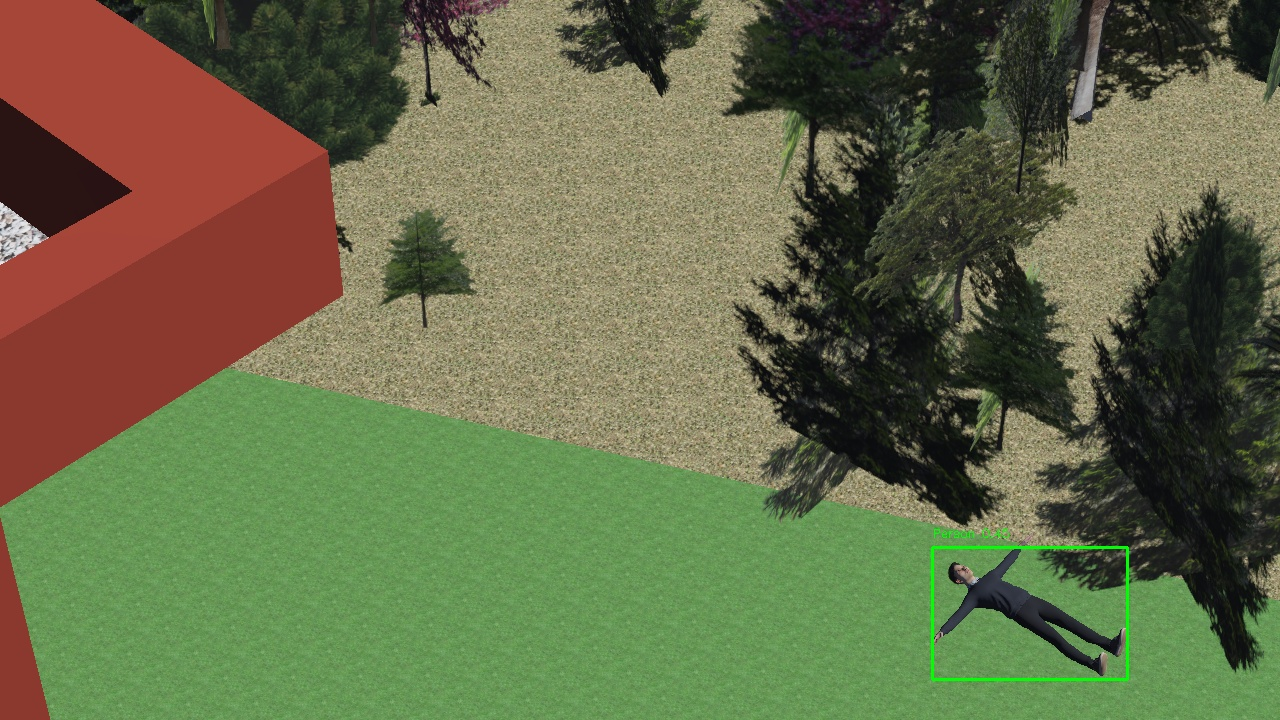
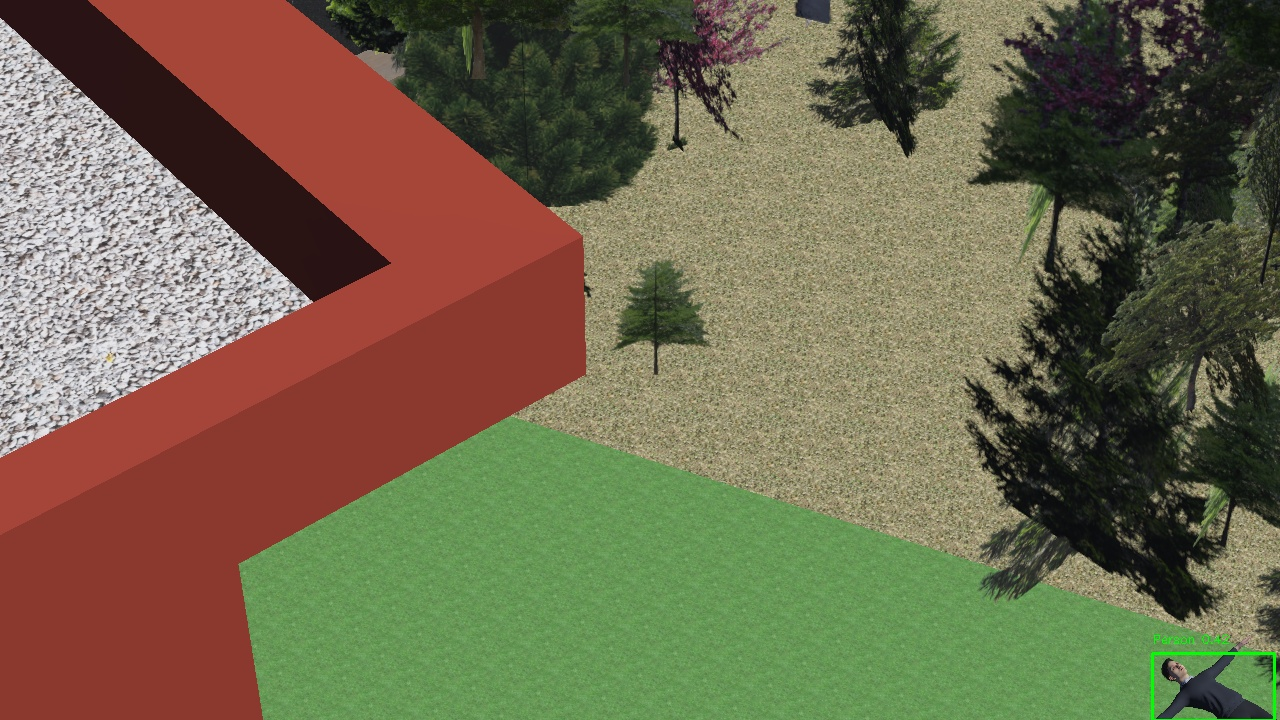
updated waypoints

diff --git a/project/server.py b/project/server.py
@@ -381,36 +381,81 @@ if __name__ == "__main__":
 
 
     # manually make waypoints
-    waypoints = [ {'x': -40, 'y': -40},         #   Start
-                    {'x': 40, 'y': -40},        #   Right
-                    {'x': -40, 'y': -40},        #   Left
-                    {'x': -40, 'y': -20},       #   Up
-                    {'x': 40, 'y': -20},        #   Right
-                    {'x': -40, 'y': -20},       #   Left
-                    {'x': -40, 'y': 0},         #   Up
-                    {'x': 40, 'y': 0},          #   Right
-                    {'x': -40, 'y': 0},         #   Left
-                    {'x': -40, 'y': 20},        #   Up
-                    {'x': 40, 'y': 20},         #   Right
-                    {'x': -40, 'y': 20},        #   Left
-                    {'x': -40, 'y': 40},        #   Up
-                    {'x': 40, 'y': 40},         #   Right
+    # waypoints = [ {'x': -40, 'y': -40},         #   Start
+    #                 {'x': 40, 'y': -40},        #   Right
+    #                 {'x': -40, 'y': -40},        #   Left
+    #                 {'x': -40, 'y': -20},       #   Up
+    #                 {'x': 40, 'y': -20},        #   Right
+    #                 {'x': -40, 'y': -20},       #   Left
+    #                 {'x': -40, 'y': 0},         #   Up
+    #                 {'x': 40, 'y': 0},          #   Right
+    #                 {'x': -40, 'y': 0},         #   Left
+    #                 {'x': -40, 'y': 20},        #   Up
+    #                 {'x': 40, 'y': 20},         #   Right
+    #                 {'x': -40, 'y': 20},        #   Left
+    #                 {'x': -40, 'y': 40},        #   Up
+    #                 {'x': 40, 'y': 40},         #   Right
 
-                    {'x': 40, 'y': -40},        #   Down
-                    {'x': 40, 'y': 40},         #   Up
-                    {'x': 20, 'y': 40},         #   Left
-                    {'x': 20, 'y': -40},        #   Down
-                    {'x': 20, 'y': 40},         #   Up
-                    {'x': 0, 'y': 40},          #   Left
-                    {'x': 0, 'y': -40},         #   Down
-                    {'x': 0, 'y': 40},          #   Up
-                    {'x': -20, 'y': 40},        #   Left
-                    {'x': -20, 'y': -40},       #   Down
-                    {'x': -20, 'y': 40},        #   Up
-                    {'x': -40, 'y': 40},        #   Left
-                    {'x': -40, 'y': -40},       #   Down
-                    {'x': -40, 'y': 40}         #   Up
-    ]
+    #                 {'x': 40, 'y': -40},        #   Down
+    #                 {'x': 40, 'y': 40},         #   Up
+    #                 {'x': 20, 'y': 40},         #   Left
+    #                 {'x': 20, 'y': -40},        #   Down
+    #                 {'x': 20, 'y': 40},         #   Up
+    #                 {'x': 0, 'y': 40},          #   Left
+    #                 {'x': 0, 'y': -40},         #   Down
+    #                 {'x': 0, 'y': 40},          #   Up
+    #                 {'x': -20, 'y': 40},        #   Left
+    #                 {'x': -20, 'y': -40},       #   Down
+    #                 {'x': -20, 'y': 40},        #   Up
+    #                 {'x': -40, 'y': 40},        #   Left
+    #                 {'x': -40, 'y': -40},       #   Down
+    #                 {'x': -40, 'y': 40}         #   Up
+    # ]
+
+    waypoints = [
+                    {'x': -36.75, 'y': -42.55},     # Start
+                    {'x': 42.75, 'y': -42.55},      # East
+                    {'x': -36.75, 'y': -42.55},     # West
+
+                    {'x': -36.75, 'y': -27.65},     # North
+                    {'x': 42.75, 'y': -27.65},      # East
+                    {'x': -36.75, 'y': -27.65},     # West
+
+                    {'x': -36.75, 'y': -12.75},     # North
+                    {'x': 42.75, 'y': -12.75},      # East
+                    {'x': -36.75, 'y': -12.75},     # West
+
+                    {'x': -36.75, 'y': 2.15},       # North
+                    {'x': 42.75, 'y': 2.15},        # East
+                    {'x': -36.75, 'y': 2.15},       # West
+
+                    {'x': -36.75, 'y': 17.05},      # North
+                    {'x': 42.75, 'y': 17.05},       # East
+                    {'x': -36.75, 'y': 17.05},      # West
+
+                    {'x': -36.75, 'y': 31.95},      # North
+                    {'x': 42.75, 'y': 31.95},       # East
+                    {'x': -36.75, 'y': 31.95},      # West
+
+                    {'x': -36.75, 'y': 46.85},      # North
+                    {'x': 42.75, 'y': 46.85},       # East
+                    {'x': -36.75, 'y': 46.85},       # West
+
+                    {'x': -36.75, 'y': -42.55},      # South
+                    {'x': -36.75, 'y': 46.85},       # North
+                    {'x': -10.25, 'y': 46.85},       # East
+
+                    {'x': -10.25, 'y': -42.55},      # South
+                    {'x': -10.25, 'y': 46.85},       # North                    
+                    {'x': 16.25, 'y': 46.85},        # East
+
+                    {'x': 16.25, 'y': -42.55},      # South
+                    {'x': 16.25, 'y': 46.85},       # North
+                    {'x': 42.75, 'y': 46.85},       # East
+
+                    {'x': 42.75, 'y': -42.55}       # South
+                ]
+
     print(f"Waypoints created {x_dim} m x {y_dim} m \n {waypoints}")
 
     ### Testing RRT* Algorithm
